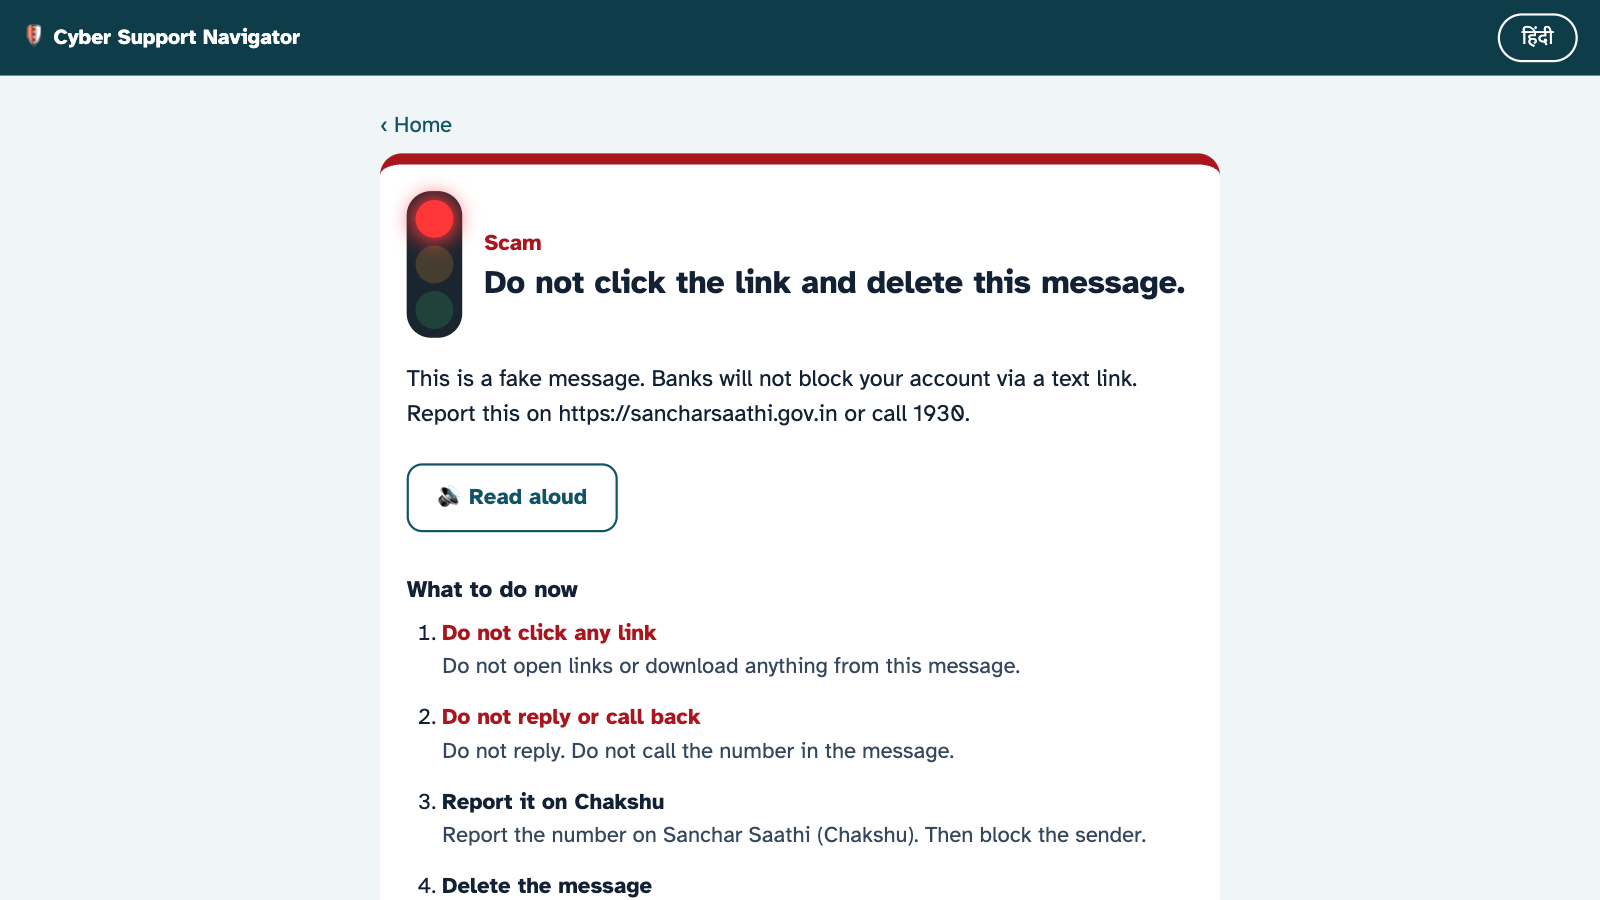
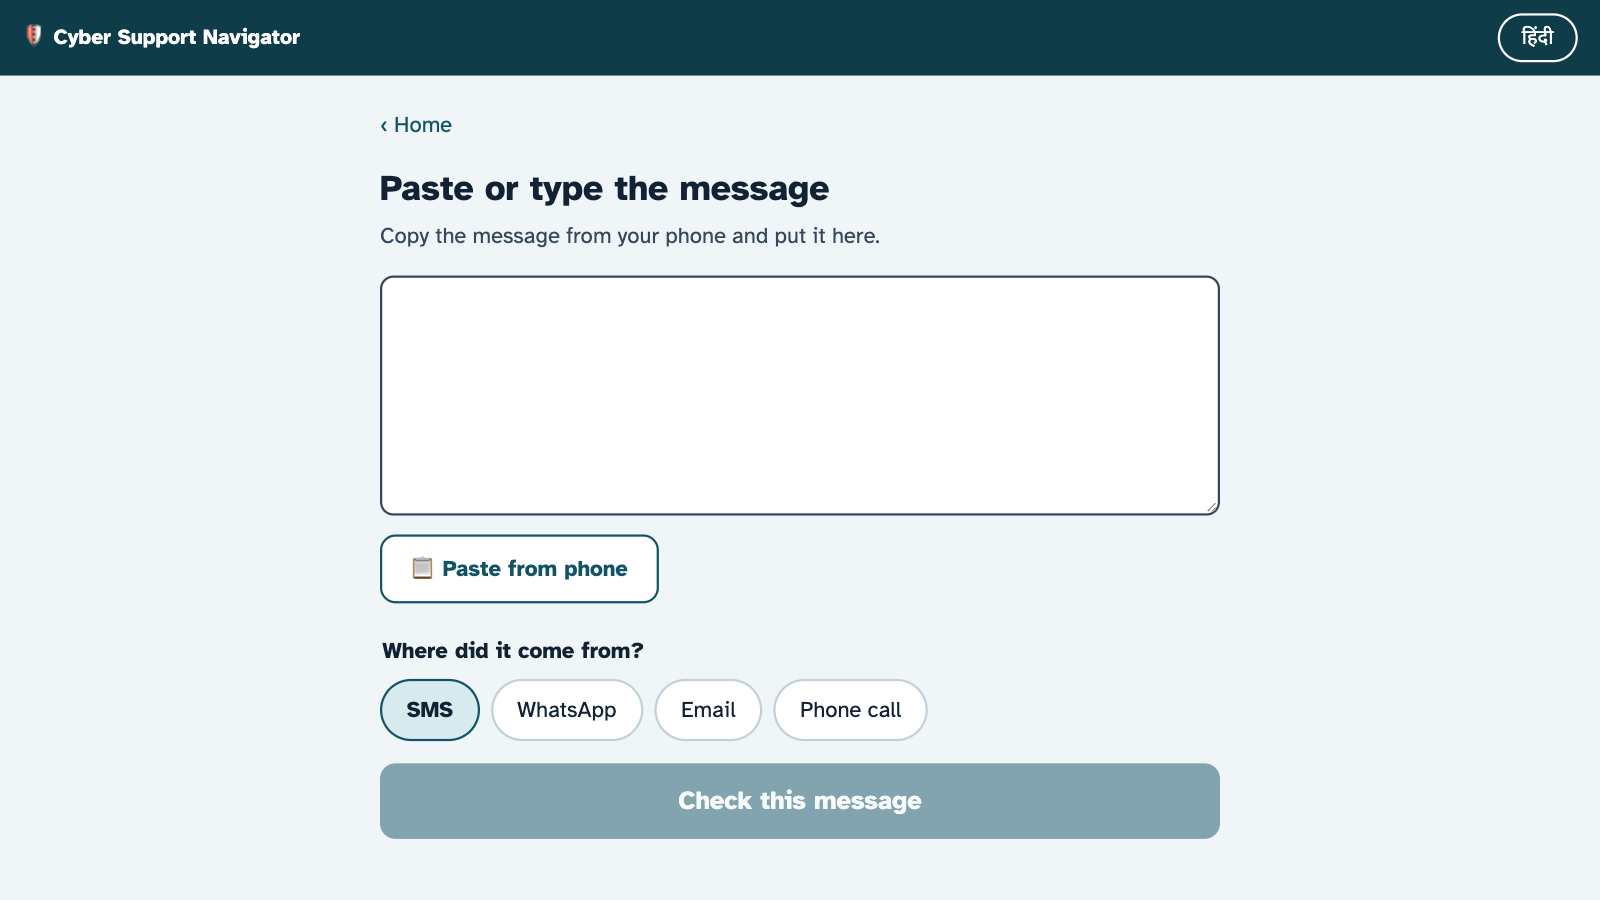
Result screen: show the checked message with exact warning words highlighted (#16)
* Highlight only the exact warning words in the checked message

Signals gain an additive 'match' field (the exact matched words); the result
screen highlights those instead of the padded evidence quotes, which overlapped
and covered most of the message.

* Refresh scam-result screenshots with the checked message shown

---------

diff --git a/web/src/components.tsx b/web/src/components.tsx
@@ -114,9 +114,9 @@ export function ResultCard({ r, message }: { r: AnalyzeResponse; message?: Check
           <div className="bubble">
             {message.from && <div className="msg-from">{message.from}</div>}
             {message.subject && <strong>{message.subject}</strong>}
-            <p>{highlight(message.text, r.signals.map((s) => s.evidence ?? ""))}</p>
+            <p>{highlight(message.text, r.signals.map((s) => s.match ?? s.evidence ?? ""))}</p>
           </div>
-          {r.signals.some((s) => s.evidence) && <p className="hint">{t.highlightHint}</p>}
+          {r.signals.some((s) => s.match ?? s.evidence) && <p className="hint">{t.highlightHint}</p>}
         </section>
       )}
       {r.language !== lang && <p className="note" lang={lang}>{t[`contentIn_${r.language}`]}</p>}

diff --git a/web/src/api/types.ts b/web/src/api/types.ts
@@ -23,6 +23,8 @@ export interface Signal {
   label: string;
   weight: number;
   evidence?: string | null;
+  /** Exact matched words, for highlighting inside the message. */
+  match?: string | null;
 }
 
 export interface ActionStep {

diff --git a/backend/app/detector/rules.py b/backend/app/detector/rules.py
@@ -297,12 +297,13 @@ def run_rules(text: str, language: Language = Language.en) -> RuleResult:
                       if rule.id != "otp_request" or not negated_at(text, x)), None)
             if m:
                 signals.append(Signal(id=rule.id, label=rule.label_hi if hi else rule.label_en,
-                                      weight=rule.weight, evidence=_snippet(text, m)))
+                                      weight=rule.weight, evidence=_snippet(text, m),
+                                      match=m.group(0).strip() or None))
                 if rule.scam_type and (best is None or rule.weight > best[0]):
                     best = (rule.weight, rule.scam_type)
                 break
     for id, w, en, h, ev in link_signals(text):
-        signals.append(Signal(id=id, label=h if hi else en, weight=w, evidence=ev))
+        signals.append(Signal(id=id, label=h if hi else en, weight=w, evidence=ev, match=ev))
         if id == "apk_link" and (best is None or w > best[0]):
             best = (w, "remote_access")
 

diff --git a/backend/tests/test_detector.py b/backend/tests/test_detector.py
@@ -198,3 +198,14 @@ def test_evidence_snippets_start_and_end_on_word_boundaries():
         assert sig.evidence
         first, last = sig.evidence.split()[0], sig.evidence.split()[-1]
         assert first in words and last in words, sig.evidence
+
+
+def test_signal_match_is_the_exact_words_inside_the_message():
+    from app.detector.rules import run_rules
+
+    text = "Dear Customer, your SBI YONO account will be blocked today. Update PAN immediately: http://sbi-yono-kyc.in/update"
+    signals = run_rules(text).signals
+    assert signals
+    for sig in signals:
+        assert sig.match and sig.match in text
+        assert len(sig.match) <= len(sig.evidence or sig.match)

diff --git a/backend/app/schemas.py b/backend/app/schemas.py
@@ -69,6 +69,7 @@ class Signal(BaseModel):
     label: str  # plain-language, in the requested language
     weight: float = Field(ge=0, le=1)
     evidence: str | None = None  # the snippet that triggered it
+    match: str | None = None  # the exact words that matched, for highlighting in the message
 
 
 class ActionStep(BaseModel):
